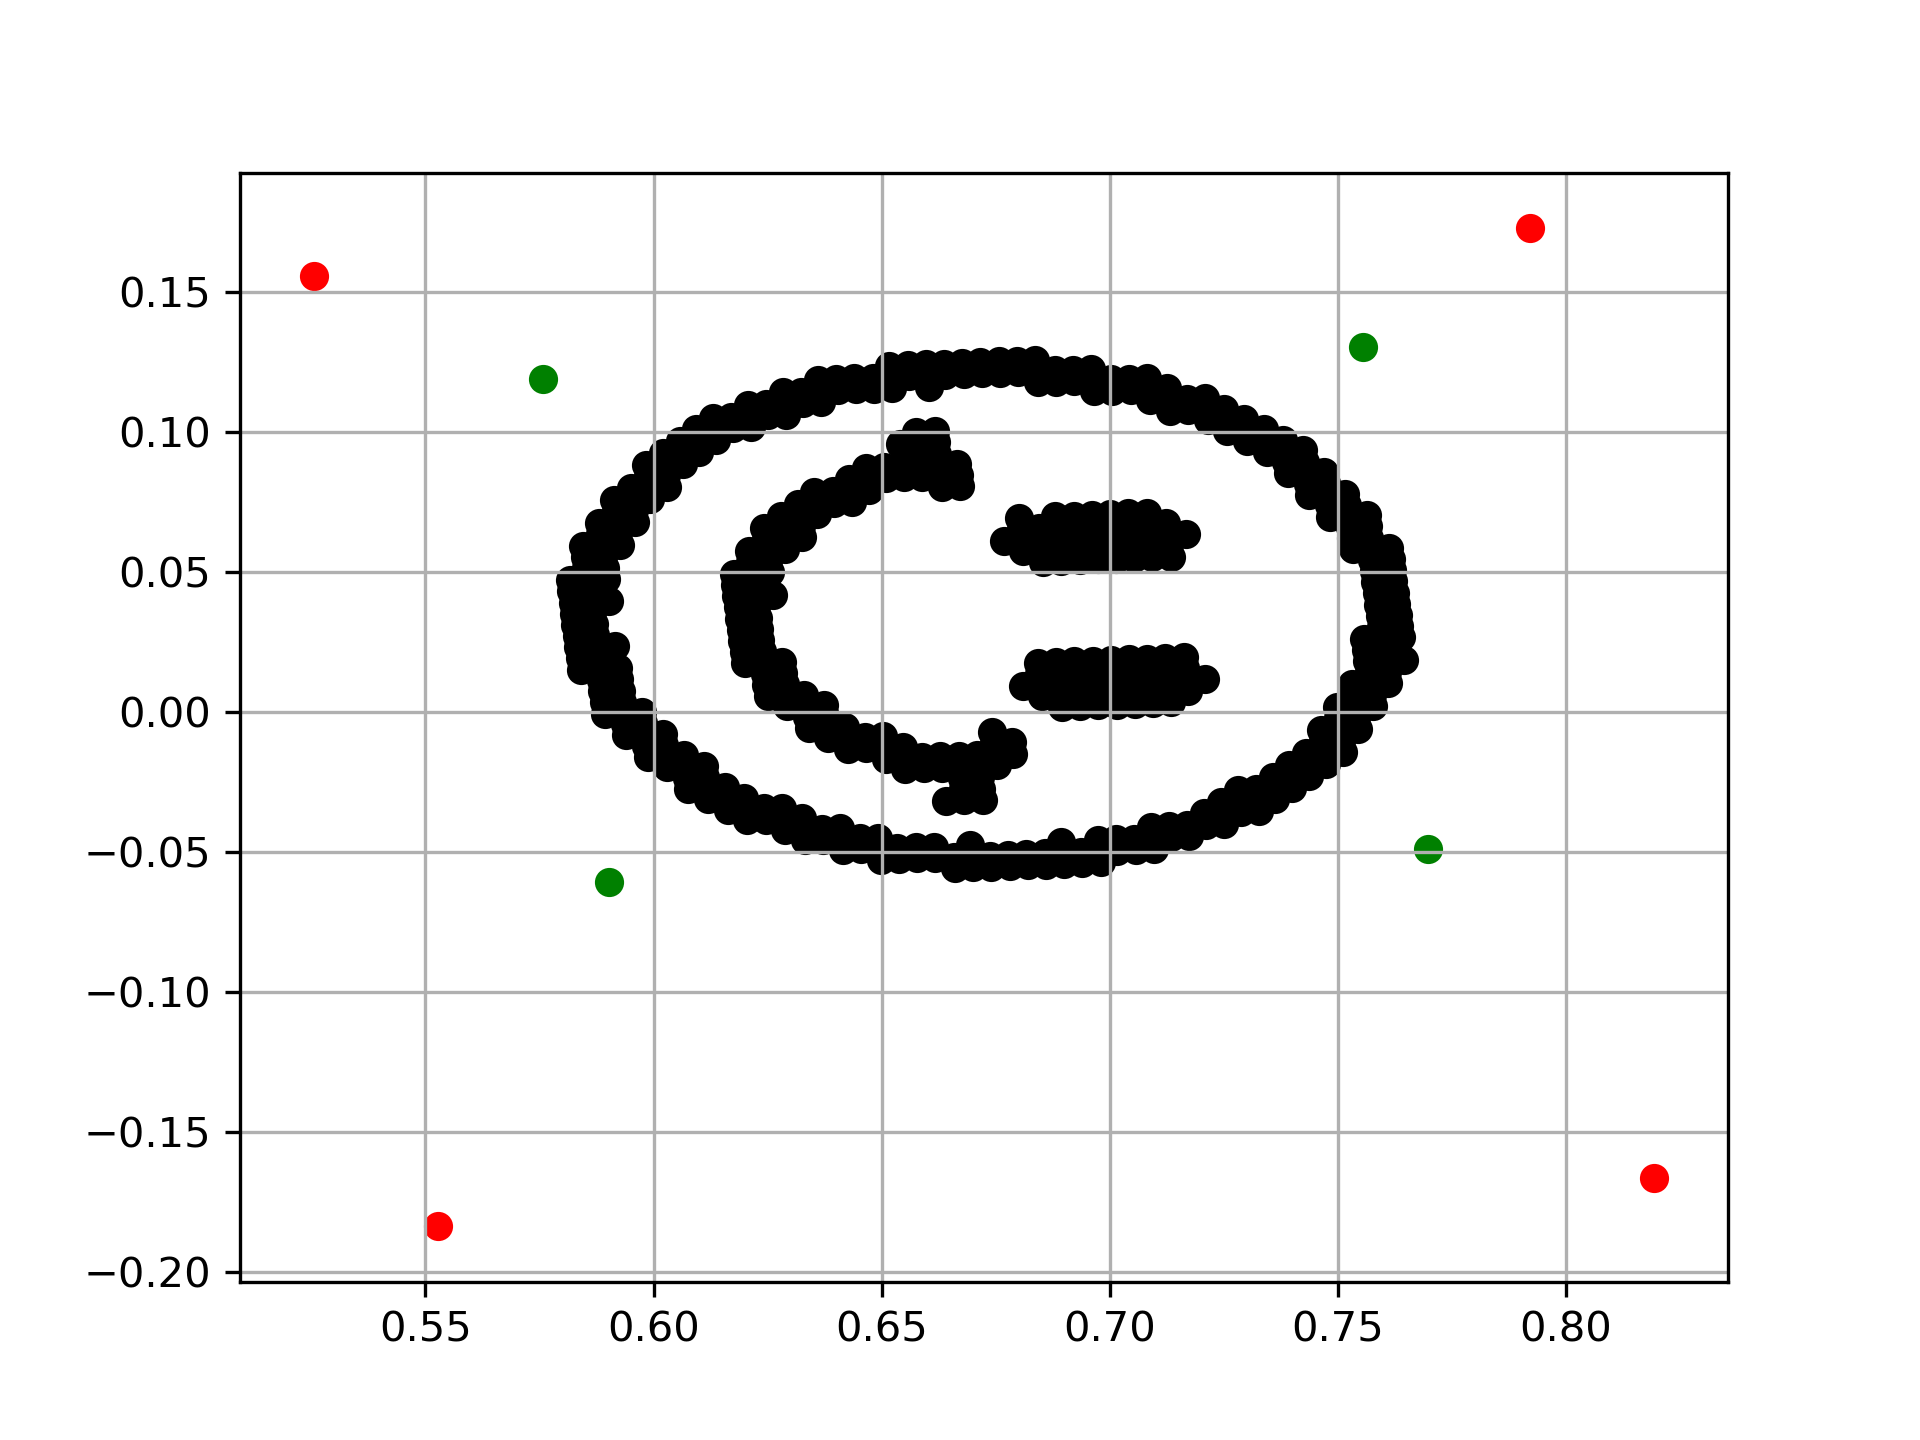
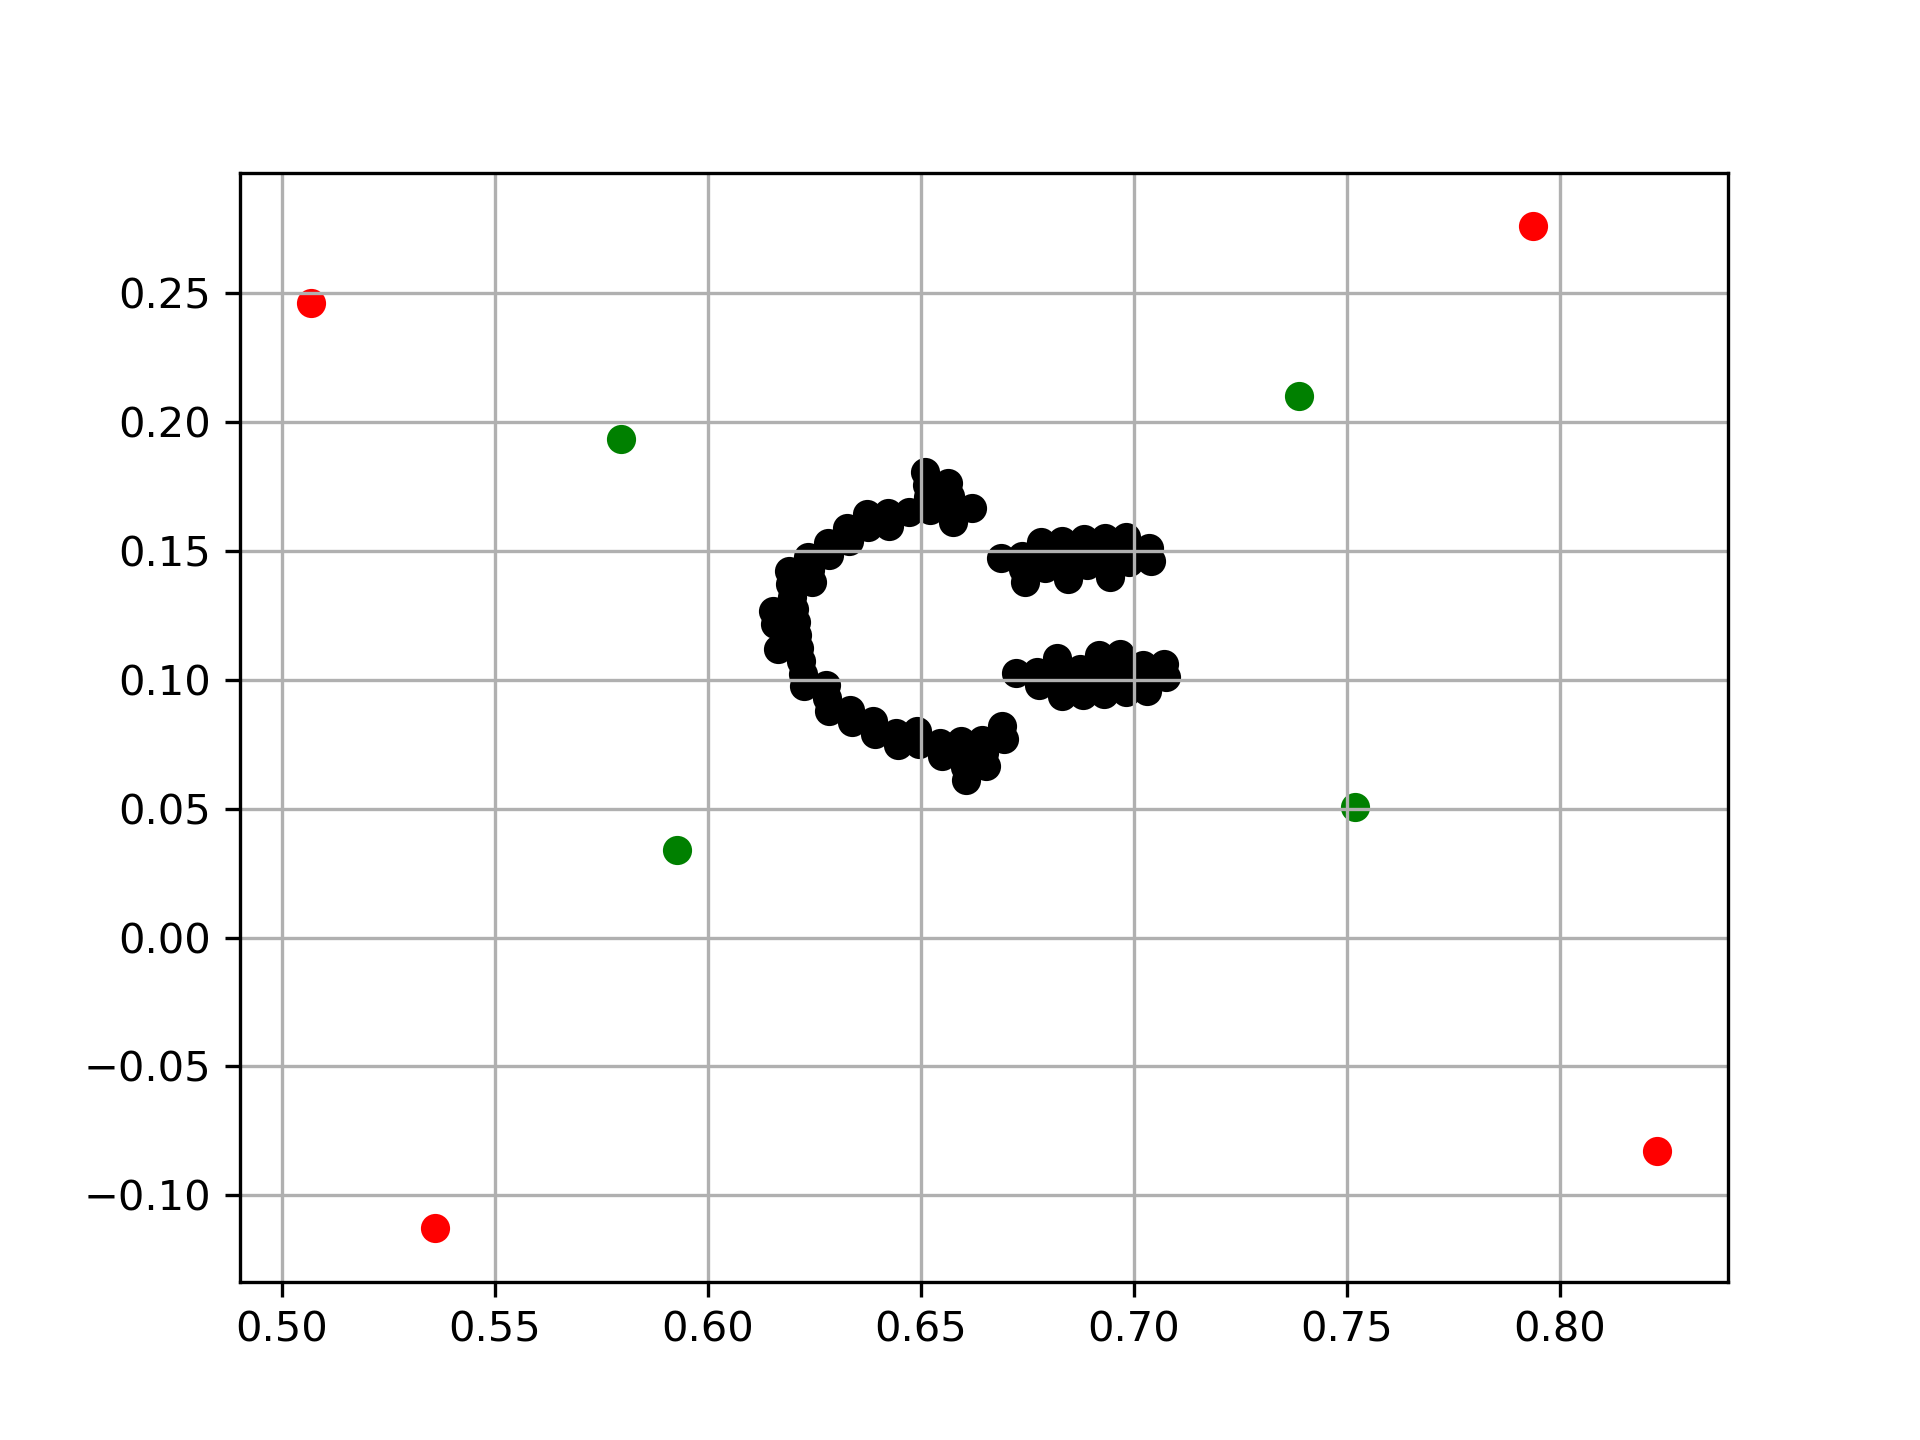
latest code 12/09

diff --git a/final_project/src/robot_code/move_arm.py b/final_project/src/robot_code/move_arm.py
@@ -2,10 +2,11 @@ import roslaunch
 import rospkg
 import rospy
 
-from std_msgs.msg import Bool
+from std_msgs.msg import Bool, Float64
 
 from moveit_commander import MoveGroupCommander
 from moveit_msgs.srv import GetPositionIK, GetPositionIKRequest, GetPositionIKResponse
+from moveit_msgs.msg import JointConstraint, PositionConstraint, Constraints
 
 button_pressed = False
 
@@ -57,6 +58,16 @@ def move_arm_probe(points: list, group_name='right_arm', link='_gripper_tip', so
         request.ik_request.pose_stamped.pose.orientation.y = 1.0
         request.ik_request.pose_stamped.pose.orientation.z = 0.0
         request.ik_request.pose_stamped.pose.orientation.w = 0.0
+
+        # constraints
+        joint_constraint = JointConstraint()
+        joint_constraint.joint_name = 'right_j0'
+        joint_constraint.position = Float64(0.0)
+        joint_constraint.tolerance_above = Float64(0.5)
+        joint_constraint.tolerance_below = Float64(0.5)
+        joint_constraint.weight = Float64(1.0)
+
+        request.ik_request.constraints = [joint_constraint]
         
         try:
 
@@ -178,13 +189,29 @@ def move_arm_plot(points: list, group_name='right_arm', link='right_hand', sourc
     
     for point in points:
 
-        x, y, z = point[0], point[1], 0
+        x, y, z = point[0], point[1], -0.01
 
         request = GetPositionIKRequest()
         request.ik_request.group_name = group_name
         request.ik_request.ik_link_name = link
         request.ik_request.pose_stamped.header.frame_id = source_frame
         # request.ik_request.attempts = 20
+
+        # constraints
+
+        # joint constraints
+        joint_constraint = JointConstraint()
+        joint_constraint.joint_name = 'right_j0'
+        joint_constraint.position = 0.0
+        joint_constraint.tolerance_above = 0.5
+        joint_constraint.tolerance_below = 0.5
+        joint_constraint.weight = 1.0
+
+        constraints = Constraints()
+        constraints.name = 'sawyer_constraints'
+        constraints.joint_constraints = [joint_constraint]
+
+        request.ik_request.constraints = constraints
 
         # Set the desired orientation for the end effector
         request.ik_request.pose_stamped.pose.position.x = x
@@ -210,6 +237,10 @@ def move_arm_plot(points: list, group_name='right_arm', link='right_hand', sourc
             # group.set_position_target([0.5, 0.5, 0.0])
             group.set_pose_target(request.ik_request.pose_stamped)
 
+            # set velocity
+            # group.set_max_velocity_scaling_factor(0.4)  # 50% of max velocity
+            # group.set_max_acceleration_scaling_factor(0.4)  # 50% of max acceleration
+
             # Plan IK
             plan = group.plan()
 
@@ -226,13 +257,28 @@ def move_arm_plot(points: list, group_name='right_arm', link='right_hand', sourc
 
         # ============================================ #
 
-        x, y, z = point[0], point[1], -0.084
+        x, y, z = point[0], point[1], -0.081
+        #x, y, z = point[0], point[1], 0.02
 
         request = GetPositionIKRequest()
         request.ik_request.group_name = group_name
         request.ik_request.ik_link_name = link
         request.ik_request.pose_stamped.header.frame_id = source_frame
         # request.ik_request.attempts = 20
+
+        # constraints
+        joint_constraint = JointConstraint()
+        joint_constraint.joint_name = 'right_j0'
+        joint_constraint.position = 0.0
+        joint_constraint.tolerance_above = 0.5
+        joint_constraint.tolerance_below = 0.5
+        joint_constraint.weight = 1.0
+
+        constraints = Constraints()
+        constraints.name = 'sawyer_constraints'
+        constraints.joint_constraints = [joint_constraint]
+
+        request.ik_request.constraints = constraints
 
         # Set the desired orientation for the end effector
         request.ik_request.pose_stamped.pose.position.x = x
@@ -258,6 +304,10 @@ def move_arm_plot(points: list, group_name='right_arm', link='right_hand', sourc
             # group.set_position_target([0.5, 0.5, 0.0])
             group.set_pose_target(request.ik_request.pose_stamped)
 
+            # set velocity
+            # group.set_max_velocity_scaling_factor(0.75)  # 50% of max velocity
+            # group.set_max_acceleration_scaling_factor(0.75)  # 50% of max acceleration
+
             # Plan IK
             plan = group.plan()
 
@@ -275,13 +325,27 @@ def move_arm_plot(points: list, group_name='right_arm', link='right_hand', sourc
     
         # ==================================
 
-        x, y, z = point[0], point[1], 0
+        x, y, z = point[0], point[1], -0.01
 
         request = GetPositionIKRequest()
         request.ik_request.group_name = group_name
         request.ik_request.ik_link_name = link
         request.ik_request.pose_stamped.header.frame_id = source_frame
         # request.ik_request.attempts = 20
+
+        # constraints
+        joint_constraint = JointConstraint()
+        joint_constraint.joint_name = 'right_j0'
+        joint_constraint.position = 0.0
+        joint_constraint.tolerance_above = 0.5
+        joint_constraint.tolerance_below = 0.5
+        joint_constraint.weight = 1.0
+
+        constraints = Constraints()
+        constraints.name = 'sawyer_constraints'
+        constraints.joint_constraints = [joint_constraint]
+
+        request.ik_request.constraints = constraints
 
         # Set the desired orientation for the end effector
         request.ik_request.pose_stamped.pose.position.x = x

diff --git a/final_project/src/main.py b/final_project/src/main.py
@@ -14,8 +14,9 @@ def main():
     rospack = rospkg.RosPack()
     prefix_path = rospack.get_path('final_project')
 
-    image_path = prefix_path + '/../assets/img/bw_smiley.jpg'
-    ar_tags = [2, 1, 5]
+    image_path = prefix_path + '/../assets/img/bw_smiley_min.jpg'
+    #image_path = prefix_path + '/../assets/img/fish.jpg'
+    ar_tags = [5, 1, 2]
 
     # initialize node
     rospy.init_node('art_sawyer')
@@ -26,7 +27,10 @@ def main():
     # find positions of AR tags
     tags_pos = [lookup_tag(ar_tag) for ar_tag in ar_tags]
 
-    points_to_paint = create_rectangle_dots(tags_pos, image_path, offset=0.04, dot_dist=0.004)
+    # points_to_paint = create_rectangle_dots(tags_pos, image_path, offset=0.05, dot_dist=0.004)
+    points_to_paint = create_rectangle_dots(tags_pos, image_path, offset=0.06, dot_dist=0.005)
+    # points_to_paint = points_to_paint[::-1]
+    #print("Points: ", len(points_to_paint))
     move_arm_plot(points_to_paint, paused=False, link='right_hand')
 
 if __name__ == '__main__':

diff --git a/final_project/src/test.py b/final_project/src/test.py
@@ -43,7 +43,17 @@ def move_arm_downward():
         rospy.logwarn("Failed to move arm downward.")
 
 if __name__ == "__main__":
-    try:
-        move_arm_downward()
-    except rospy.ROSInterruptException:
-        pass
+    # try:
+    #     move_arm_downward()
+    # except rospy.ROSInterruptException:
+    #     pass
+
+    from moveit_commander import RobotCommander
+
+    # Initialize MoveIt! Commander
+    robot_commander = RobotCommander()
+
+    # Get the joint names for the robot
+    joint_names = robot_commander.get_group('right_arm').get_joints()
+
+    print(joint_names)

diff --git a/final_project/src/robot_code/image_to_plot.py b/final_project/src/robot_code/image_to_plot.py
@@ -100,6 +100,7 @@ def create_rectangle_dots(tags: list, image_path, offset=0.5, dot_dist=0.1):
     # plt.show()
     plt.savefig("plot_image.png", dpi=300)
 
+    # return [(xp1, yp1), (xp2, yp2), (xp3, yp3), (xp4, yp4)]
     return pts_to_plot
 
 def process_image(image_path, canvas_width, canvas_height):
